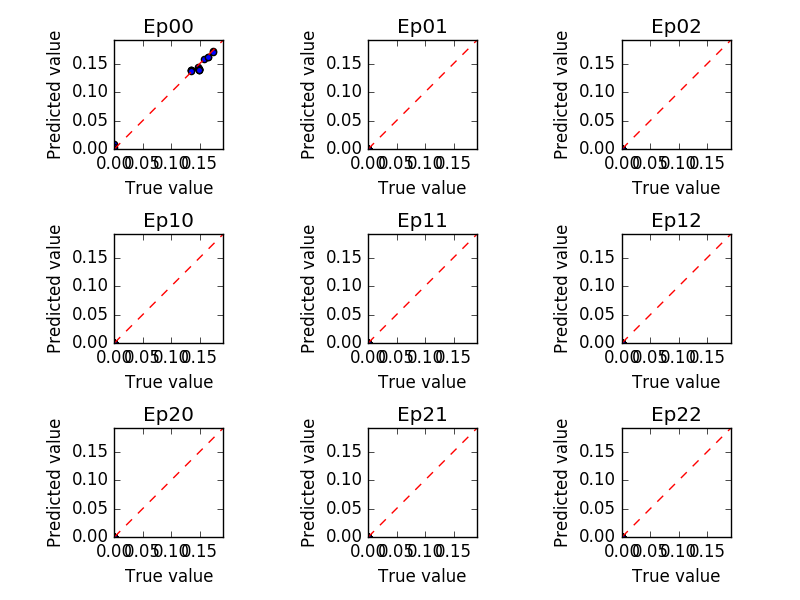
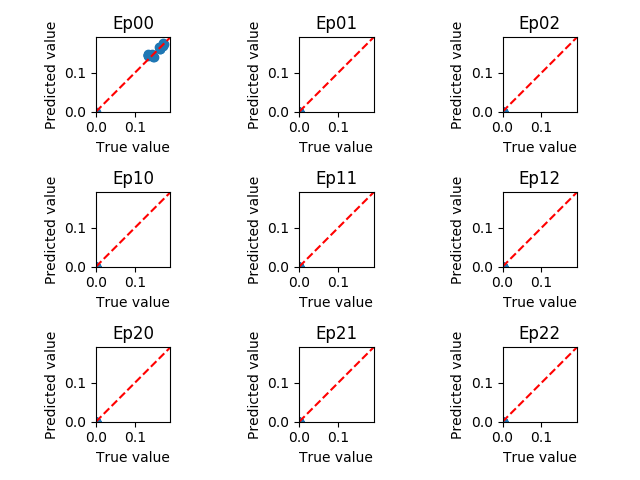
Added capability to use random seeds so the results are reproducible. Added plots and diagnostics that should be stable as long as the random and numpy.random modules are stable. Confirmed both examples ran repeatably.

diff --git a/examples/plasticity/plasticity_example_driver.py b/examples/plasticity/plasticity_example_driver.py
@@ -110,6 +110,7 @@ def main():
     average_interval = 4  # Number of intervals averaged over for early stopping criteria
     learning_rate_decay = 0.995 # Reduction per epoch of the learning rate
     split_fraction = 0.8  # Fraction of data to use for training
+    seed = 12345 # Random number generator seed for reproducibility, set equal to None for no seeding
 
     # Load in data
     strain, plastic_strain, strain_dot, plastic_strain_dot = load_plasticity_data()
@@ -121,8 +122,11 @@ def main():
     y = data_processor.calc_output(plastic_strain_dot, strain_dot)  # Plastic strain time derivative tensor
 
     # Split into training and test data sets
+    if seed:
+        np.random.seed(seed) # sets the random seed for Theano
     x_train, tb_train, y_train, x_test, tb_test, y_test = DataProcessor.train_test_split(x, tb, y,
-                                                                                            fraction=split_fraction)
+                                                                                         fraction=split_fraction,
+                                                                                         seed=seed)
 
     # Define network structure
     structure = NetworkStructure()

diff --git a/examples/turbulence/turbulence_example_driver.py b/examples/turbulence/turbulence_example_driver.py
@@ -40,7 +40,6 @@ def load_channel_data():
 
     # Load in data from channel.txt
     data = np.loadtxt('channel.txt', skiprows=4)
-    np.random.shuffle(data)
     k = data[:, 0]
     eps = data[:, 1]
     grad_u_flat = data[:, 2:11]
@@ -100,6 +99,7 @@ def main():
     split_fraction = 0.8  # Fraction of data to use for training
     enforce_realizability = True  # Whether or not we want to enforce realizability constraint on Reynolds stresses
     num_realizability_its = 5  # Number of iterations to enforce realizability
+    seed = 12345 # use for reproducibility, set equal to None for no seeding
 
     # Load in data
     k, eps, grad_u, stresses = load_channel_data()
@@ -117,8 +117,10 @@ def main():
             y = TurbulenceKEpsDataProcessor.make_realizable(y)
 
     # Split into training and test data sets
+    if seed:
+        np.random.seed(seed) # sets the random seed for Theano
     x_train, tb_train, y_train, x_test, tb_test, y_test = \
-        TurbulenceKEpsDataProcessor.train_test_split(x, tb, y,fraction=split_fraction)
+        TurbulenceKEpsDataProcessor.train_test_split(x, tb, y, fraction=split_fraction, seed=seed)
 
     # Define network structure
     structure = NetworkStructure()

diff --git a/tbnn/preprocessor.py b/tbnn/preprocessor.py
@@ -27,7 +27,7 @@ class DataProcessor:
         return outputs
 
     @staticmethod
-    def train_test_split(inputs, tb, outputs, fraction=0.8, randomize=True):
+    def train_test_split(inputs, tb, outputs, fraction=0.8, randomize=True, seed=None):
         """
         Split inputs and outputs into training and validation set
         :param inputs: scalar invariants
@@ -42,6 +42,8 @@ class DataProcessor:
         num_train = int(fraction*num_points)
         idx = range(num_points)
         if randomize:
+            if seed:
+                random.seed(seed)
             random.shuffle(idx)
         train_idx = idx[:num_train]
         test_idx = idx[num_train:]
